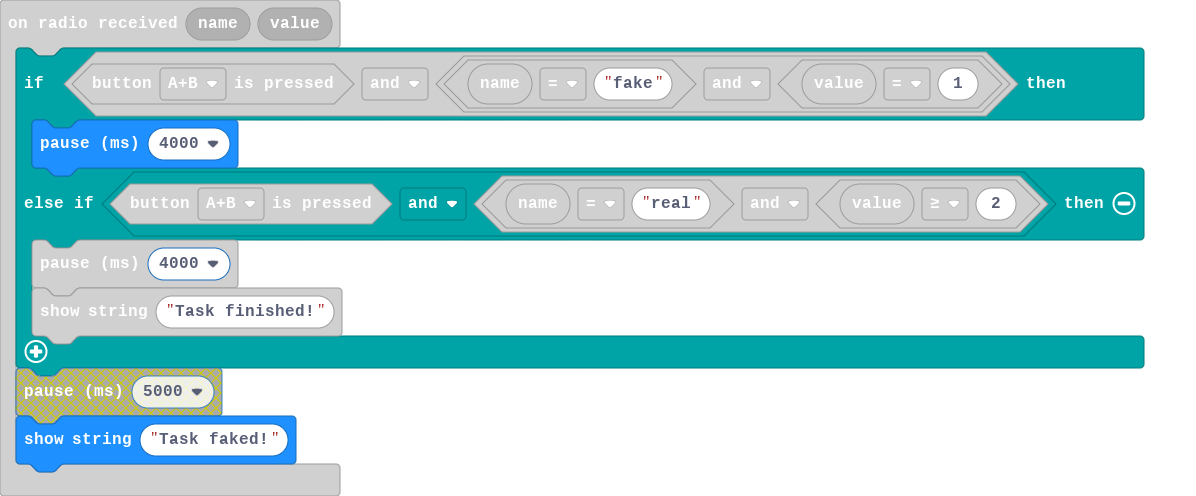
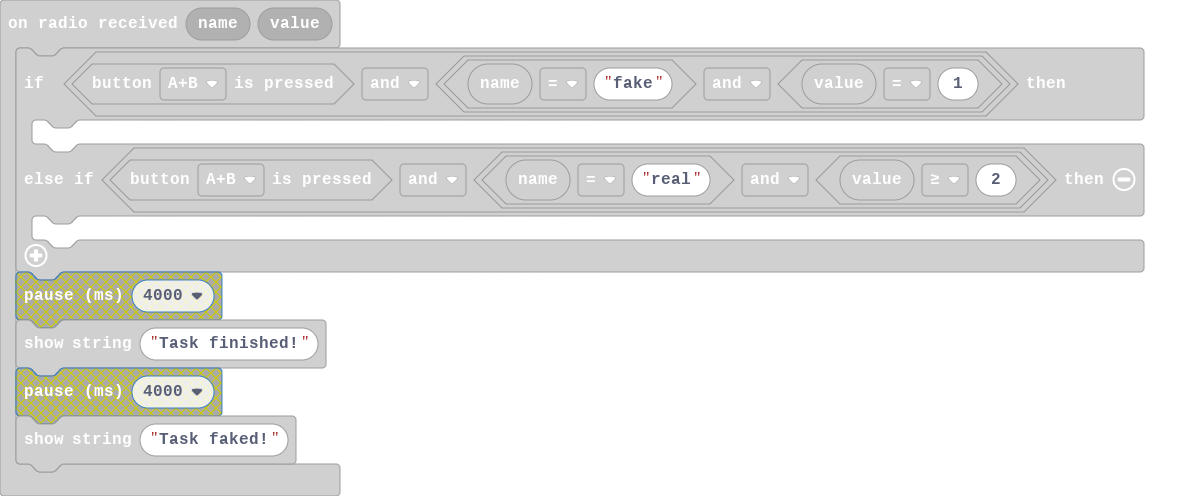
Update main.blocks, main.ts

diff --git a/main.ts b/main.ts
@@ -1,9 +1,7 @@
 radio.onReceivedValue(function (name, value) {
     if (input.buttonIsPressed(Button.AB) && (name == "fake" && value == 1)) {
-        basic.pause(4000)
         basic.showString("Task faked!")
     } else if (input.buttonIsPressed(Button.AB) && (name == "real" && value >= 2)) {
-        basic.pause(4000)
         basic.showString("Task finished!")
     }
 })
